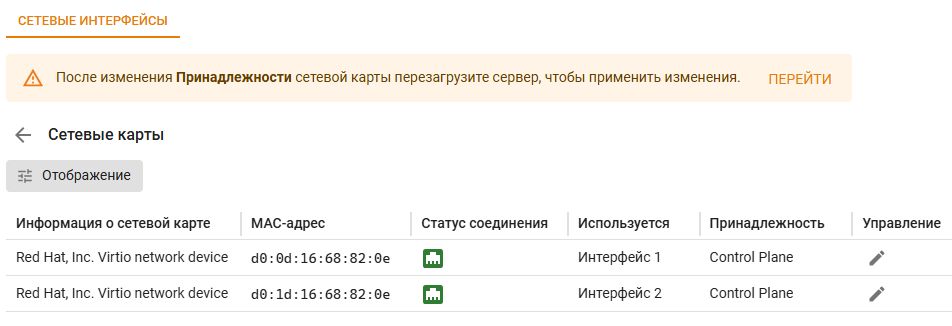
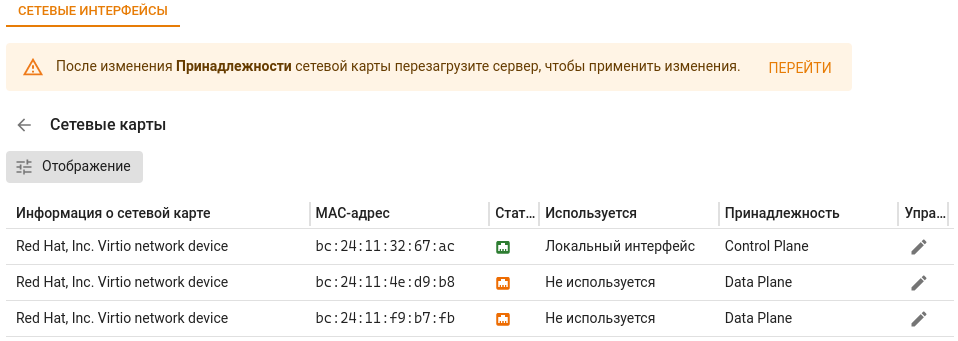
Правка окончательная

diff --git a/initial-setup/initial-setup-web.md b/initial-setup/initial-setup-web.md
@@ -33,21 +33,25 @@ description: >-
 
 ![](/.gitbook/assets/initial-setup-web2.png)
 
-## Настройка подключения к провайдеру
+## Настройка Data Plane интерфейсов
 
 {% hint style="info" %}
 Перед настройкой Data Plane интерфейсов проверьте соответствие сетевых карт [системным требованиям](/general/data-update-source-utm-vpp.md).
 {% endhint %}
 
+### Настройка подключения к провайдеру
+
 Для выхода NGFW VPP в интернет настройте Data Plane интерфейс, выполнив действия:
 
 1\. Перейдите в раздел **Сервисы -> Cетевые интерфейсы**.
 
-2\. По умолчанию все сетевые карты используются как Control Plane. Нажмите на кнопку **Сетевые карты** и отредактируйте принадлежность сетевой карты для Data Plane интерфейса, нажав на ![](/.gitbook/assets/icon-edit.png) в столбце **Управление**:
+2\. По умолчанию все сетевые карты используются как Control Plane. Нажмите на кнопку **Сетевые карты** и отредактируйте принадлежность сетевой карты, нажав на ![](/.gitbook/assets/icon-edit.png) в столбце **Управление**:
 
 ![](/.gitbook/assets/initial-setup-web3.png)
 
-Если в столбце **Информация о сетевой карте** указан VPP interface, то карта подходит для Data Plane интерфейса. Если указан производитель сетевой карты - для Control Plane.
+В появившемся окне выберите принадлежность карты для Data Plane интерфейса:
+
+![](/.gitbook/assets/initial-setup-web31.png)
 
 3\. Для корректной работы интерфейса обязательно перезагрузите сервер после смены принадлежности.
 
@@ -58,6 +62,10 @@ description: >-
 5\. Выберите сетевую карту для Data Plane интерфейса и укажите название интерфейса:
 
 ![](/.gitbook/assets/initial-setup-web5.png)
+
+{% hint style="info" %}
+Если в столбце **Информация о сетевой карте** указан VPP interface, то карта подходит для Data Plane интерфейса. Если указан производитель сетевой карты - для Control Plane.
+{% endhint %}
 
 6\. Воспользуйтесь опцией **Автоматическая конфигурация через DHCP**, если провайдер поддерживает автоматическое конфигурирование, или укажите IP-адрес сервера и шлюз:
    
@@ -69,36 +77,14 @@ description: >-
 Если ни один из Data Plane интерфейсов не имеет выхода в интернет, то пользователи шлюза Ideco NGFW VPP не смогут получить доступ в интернет.
 {% endhint %}
 
-## Настройка пользовательского интерфейса
+### Настройка пользовательского интерфейса
 
-Для организации пользовательской локальной сети настройте Data Plane интерфейс, выполнив действия:
+Для организации пользовательской локальной сети настройте второй Data Plane интерфейс. Для этого выполните те же действия, что и в предыдущем разделе со свободной сетевой картой:
 
-1\. Перейдите в раздел **Сервисы-> Сетевые интерфейсы**.
-
-2\. По умолчанию все сетевые карты используются как Control Plane. Нажмите на кнопку **Сетевые карты** и отредактируйте принадлежность сетевой карты для Data Plane интерфейса, нажав на ![](/.gitbook/assets/icon-edit.png) в столбце **Управление**:
-
-![](/.gitbook/assets/initial-setup-web3.png)
-
-Если в столбце **Информация о сетевой карте** указан VPP interface, то карта подходит для Data Plane интерфейса. Если указан производитель сетевой карты - для Control Plane.
-
-3\. Для корректной работы интерфейса обязательно перезагрузите сервер после смены принадлежности.
-
-4\. Для настройки сетевого интерфейса перейдите в раздел **Сервисы -> Cетевые интерфейсы**, нажмите **Добавить** и выберите **Ethernet**:
-
-![](/.gitbook/assets/initial-setup-web4.png)
-
-5\. Выберите сетевую карту для Data Plane интерфейса и укажите название интерфейса:
-
-![](/.gitbook/assets/initial-setup-web5.png)
-
-6\. Воспользуйтесь опцией **Автоматическая конфигурация через DHCP**, если используется сторонний DHCP-cервер в пользовательской сети, или укажите IP-адрес сервера:
-   
-![](/.gitbook/assets/initial-setup-web8.png)
-
-7\. Проверьте правильность введенных данных и нажмите **Добавить**.
+![](/.gitbook/assets/initial-setup-web51.png)
 
 {% hint style="warning" %}
 Для корректной работы NGFW VPP **не указывайте** шлюз при настройке пользовательских DataPlane интерфейсов. 
 {% endhint %}
 
-Далее потребуется зарегистрировать сервер в личном кабинете. Подробнее смотрите в статье [Регистрация сервера](initial-setup\server-registration.md).
+Далее потребуется зарегистрировать сервер в личном кабинете. Подробнее смотрите в статье [Регистрация сервера](/initial-setup/server-registration.md).
